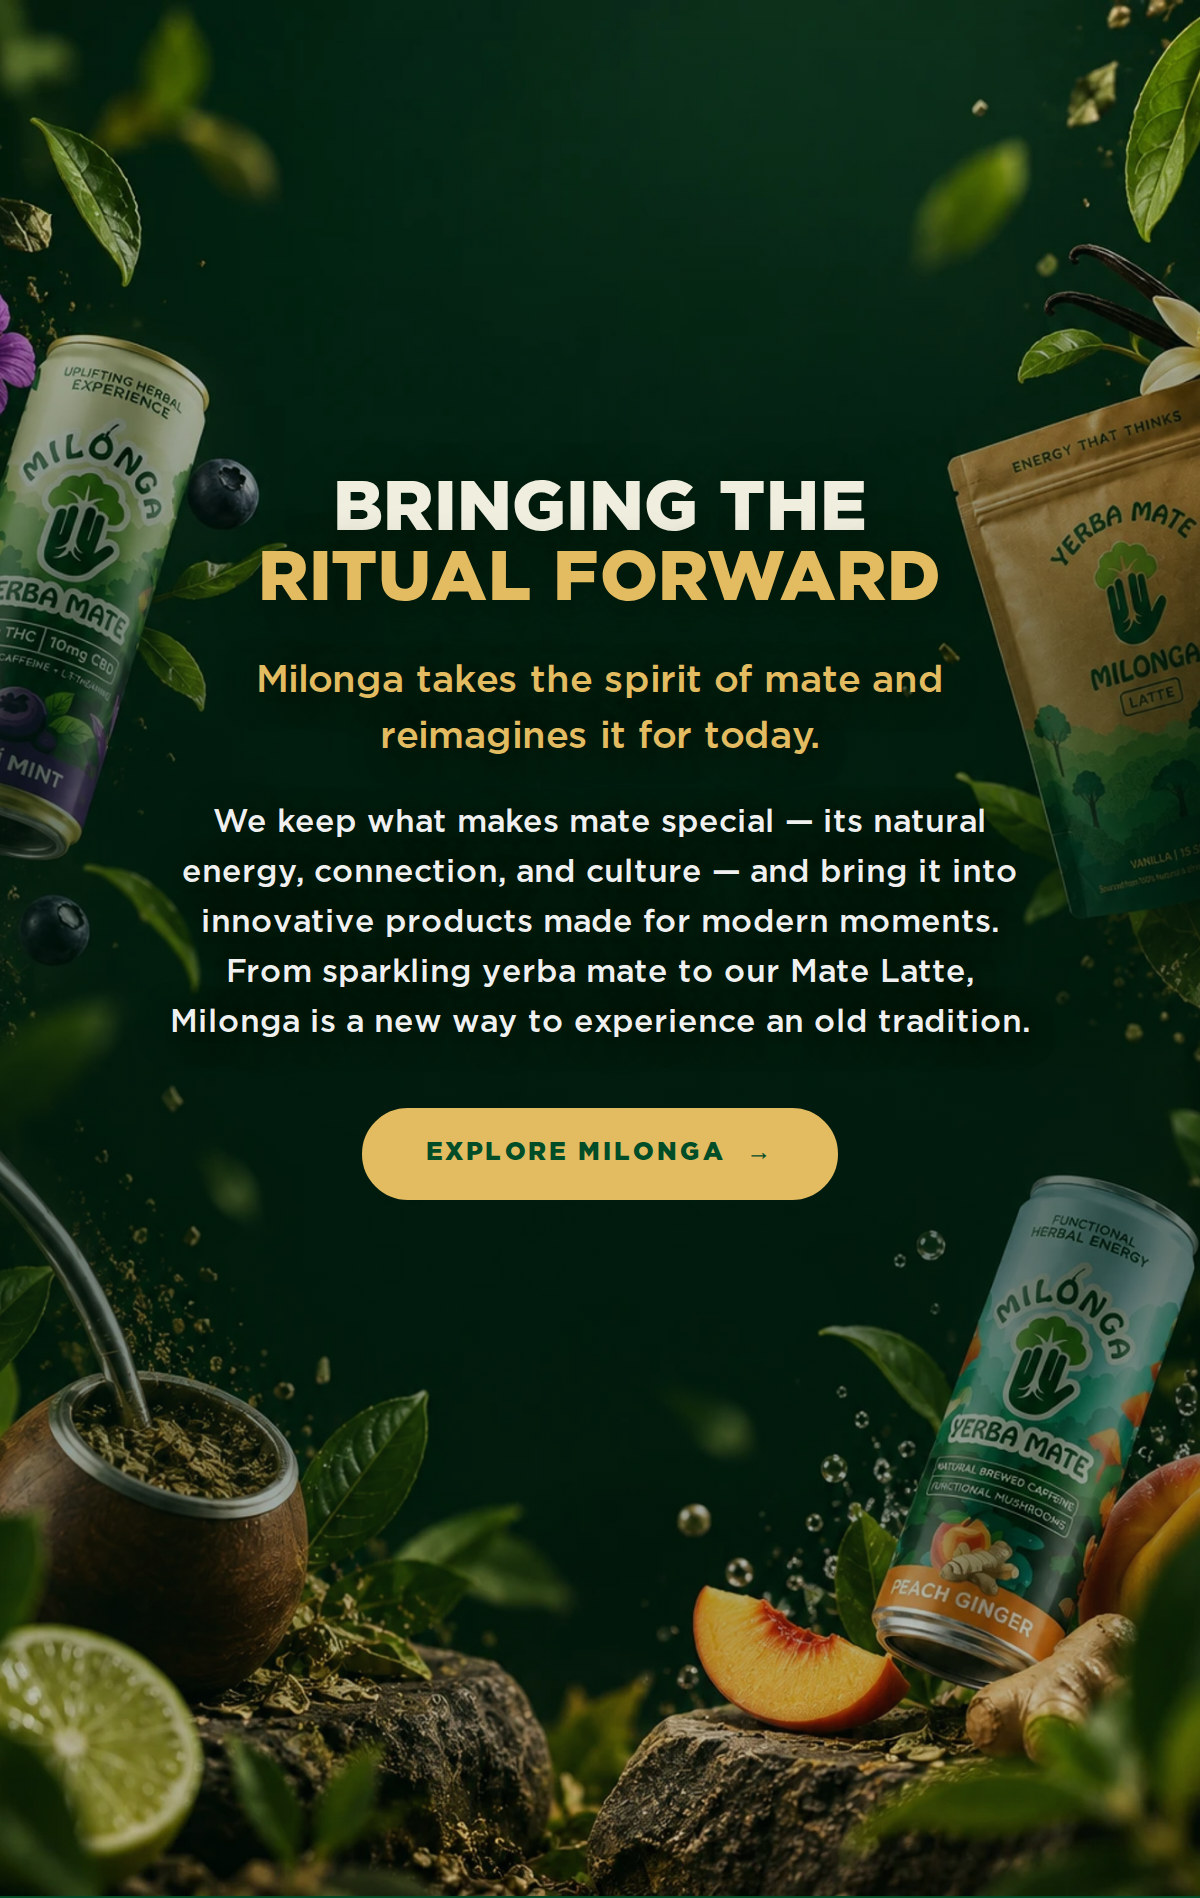
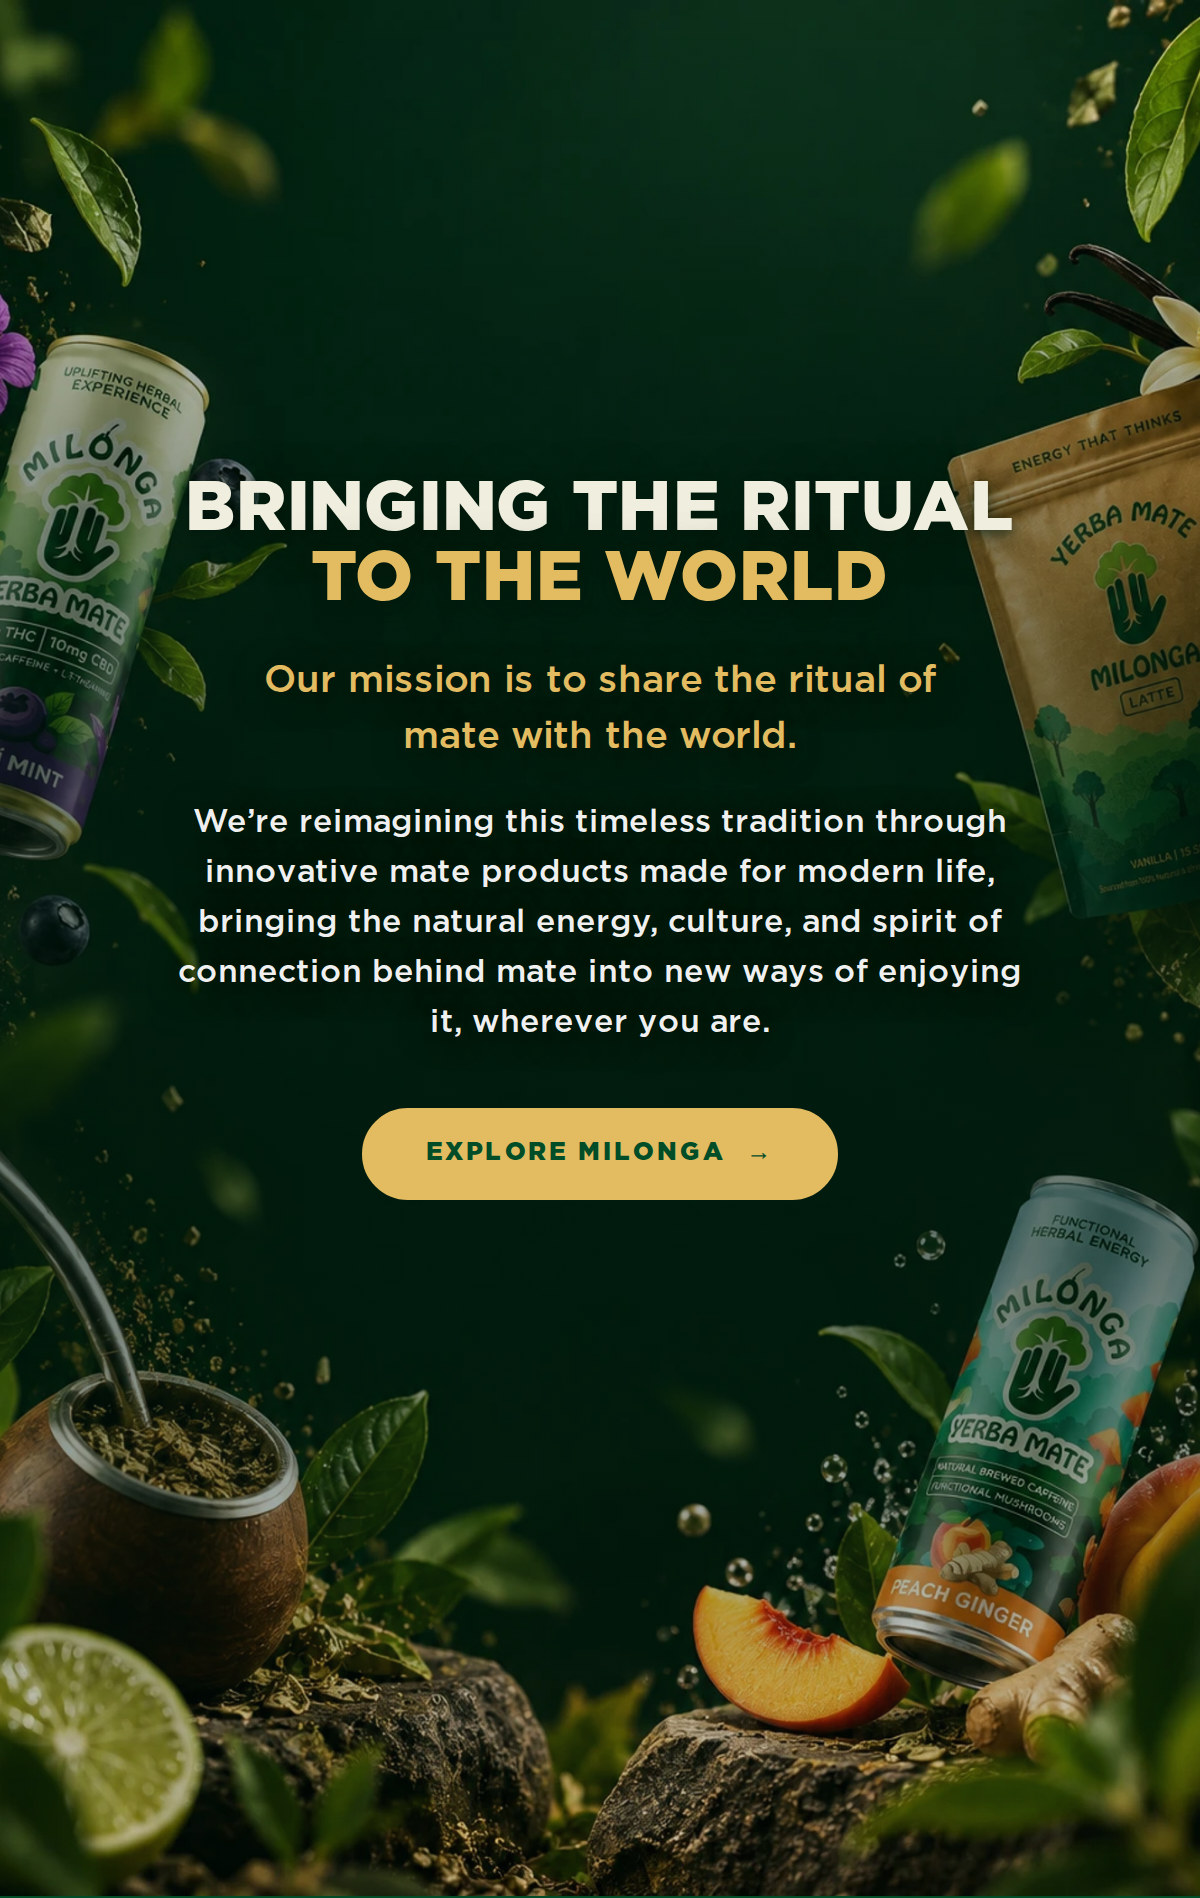
Rewrite section 3 to the mission copy; add leadMeasure to T9Story
New title, lead and paragraph for the close. The title splits after "ritual"
so the gold line carries "TO THE WORLD" — the phrase the section is about —
rather than stranding it as a short tail.

`leadMeasure` sizes the lead's column independently of the body's. The lead is
set three points larger, so sharing the body's measure gives it fewer
characters per line, and at 440 this sentence shed a two-word last line
("...with / the world."). At 345 it rags evenly.

Worth noting: the new copy drops "From sparkling yerba mate to our Mate Latte",
which was the line I could not verify against the product file. Nothing in
this section now names a SKU, so that flag is closed.

Claude-Session: https://claude.ai/code/session_01NhEtXPnfeCJfN73SqBkUZ5

Changed region(s): [[0.1542, 0.2487, 0.8633, 0.5595]]

diff --git a/email-ds/emails/mate-ritual.jsx b/email-ds/emails/mate-ritual.jsx
@@ -88,11 +88,11 @@ function MateRitual() {
     h(M.T9Story, {
       src: IMG.family,
       alt: 'Milonga yerba mate cans, the latte pouch and a mate gourd among leaves and fruit on a deep green ground',
-      line1: 'Bringing the',
-      line2: 'ritual forward',
-      lead: 'Milonga takes the spirit of mate and reimagines it for today.',
+      line1: 'Bringing the ritual',
+      line2: 'to the world',
+      lead: 'Our mission is to share the ritual of mate with the world.',
       paras: [
-        'We keep what makes mate special \u2014 its natural energy, connection, and culture \u2014 and bring it into innovative products made for modern moments. From sparkling yerba mate to our Mate Latte, Milonga is a new way to experience an old tradition.',
+        'We\u2019re reimagining this timeless tradition through innovative mate products made for modern life, bringing the natural energy, culture, and spirit of connection behind mate into new ways of enjoying it, wherever you are.',
       ],
       cta: { label: 'Explore Milonga', href: '#', arrow: true },
       // Title, copy and button read as one centred group, so the button rides
@@ -103,6 +103,7 @@ function MateRitual() {
       ratio: 1.58,
       size: 35,
       measure: 440,
+      leadMeasure: 345,
     })
   );
 }

diff --git a/email-ds/src/components/HeroTemplates.tsx b/email-ds/src/components/HeroTemplates.tsx
@@ -967,6 +967,12 @@ export interface T9Props {
   line2?: string;
   /** One sentence in the accent, between the title and the body. */
   lead?: string;
+  /**
+   * Measure for the lead alone. It is set three points larger than the body,
+   * so sharing the body's measure gives it fewer characters per line and it
+   * tends to shed a two-word last line. Narrow this until it rags evenly.
+   */
+  leadMeasure?: number;
   /** The paragraphs, in order. The first is set a little larger as a lead. */
   paras?: string[];
   /**
@@ -1039,6 +1045,7 @@ export function T9Story({
   line1,
   line2,
   lead,
+  leadMeasure,
   paras = [],
   tailParas = [],
   cta,
@@ -1115,7 +1122,7 @@ export function T9Story({
               fontSize: 19,
               lineHeight: 1.48,
               color: colors.gold,
-              maxWidth: measure,
+              maxWidth: leadMeasure ?? measure,
               margin: '20px auto 0',
               textShadow: softShadow,
             }}

diff --git a/email-ds/refine/mate-s3-clean.html b/email-ds/refine/mate-s3-clean.html
@@ -14,7 +14,7 @@ const props = {
   lead: 'Milonga takes the spirit of mate and reimagines it for today.',
   paras: ['We keep what makes mate special — its natural energy, connection, and culture — and bring it into innovative products made for modern moments. From sparkling yerba mate to our Mate Latte, Milonga is a new way to experience an old tradition.'],
   cta: { label: 'Explore Milonga', href: '#', arrow: true },
-  ctaInline: true, scrimAt: 'middle', size: 35, measure: 440,
+  ctaInline: true, scrimAt: 'middle', size: 35, measure: 440, leadMeasure: 345,
 };
 ReactDOM.createRoot(document.getElementById('root')).render(
   h('div',{style:{width:600,margin:'0 auto'}},
